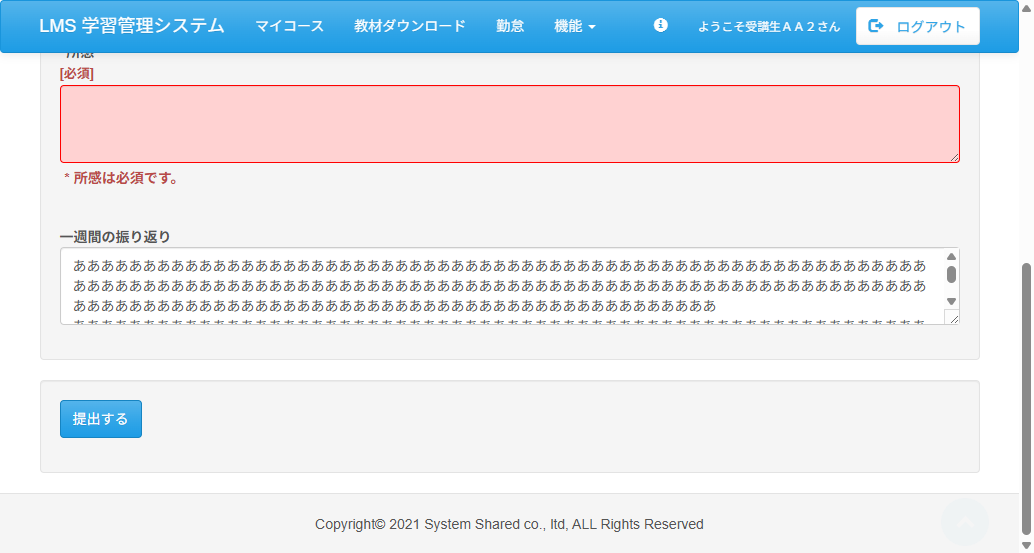
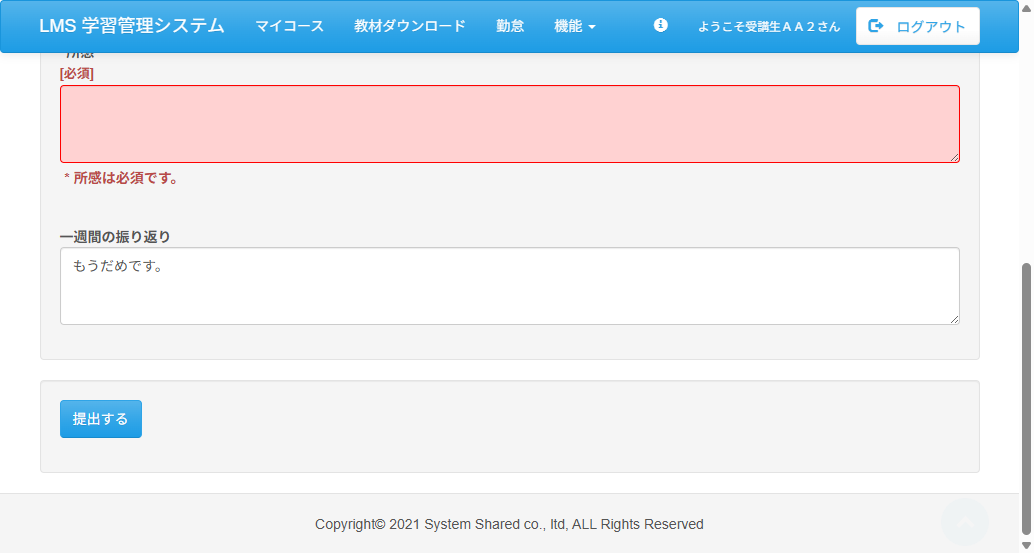
fix:Case09.java 修正 fix:Case11.java 追記 add:Case11_test01.png 新規作成 add:Case11_test02.png 新規作成 add:Case11_test03.png 新規作成 add:Case11_test04.png 新規作成 add:Case11_test05.png 新規作成 add:ConstantsMessages.java 新規作成

Changed region(s): [[0.0619, 0.4611, 0.9284, 0.5841]]

diff --git a/test_code_creation_name/src/test/java/jp/co/sss/lms/ct/f03_report/Case09.java b/test_code_creation_name/src/test/java/jp/co/sss/lms/ct/f03_report/Case09.java
@@ -17,6 +17,8 @@ import org.openqa.selenium.Keys;
 import org.openqa.selenium.WebElement;
 import org.openqa.selenium.support.ui.Select;
 
+import jp.co.sss.lms.ct.util.ConstantsMessages;
+
 /**
  * 結合テスト レポート機能
  * ケース09
@@ -120,6 +122,13 @@ public class Case09 {
 				break;
 			}
 		}
+
+		//レポート登録画面に遷移しているかを確認する
+		//レポート登録画面に遷移しているかを確認
+		WebElement report = webDriver.findElement(By.tagName("h2"));
+		String reportTitleString = report.getText();
+		String reportTitle = reportTitleString.split(" ")[0];
+		assertEquals("週報【デモ】", reportTitle);
 
 		//画面をキャプチャして保存する
 		getEvidence(new Object() {
@@ -384,36 +393,11 @@ public class Case09 {
 		WebElement weeklyReview = webDriver.findElement(By.name("contentArray[2]"));
 		weeklyReview.clear();
 
-		weeklyReview.sendKeys(
-				"ああああああああああああああああああああああああああああああああああああああああああああああああああああああああああああああああああああああああああああああああああああああああああああああああああああああああああああああああああああああああああああああああああああああああああああああああああああああああああああああああああああああああ\r\n"
-						+ "ああああああああああああああああああああああああああああああああああああああああああああああああああああああああああああああああああああああああああああああああああああああああああああああああああああああああああああああああああああああああああああああああああああああああああああああああああああああああああああああああああああああああ\r\n"
-						+ "ああああああああああああああああああああああああああああああああああああああああああああああああああああああああああああああああああああああああああああああああああああ\r\n"
-						+ "ああああああああああああああああああああああああああああああああああああああああああああああああああああああああああああああああああああああああああああああああ");
-
-		weeklyReview.sendKeys(
-				"ああああああああああああああああああああああああああああああああああああああああああああああああああああああああああああああああああああああああああああああああああああああああああああああああああああああああああああああああああああああああああああああああああああああああああああああああああああああああああああああああああああああああ\r\n"
-						+ "ああああああああああああああああああああああああああああああああああああああああああああああああああああああああああああああああああああああああああああああああああああああああああああああああああああああああああああああああああああああああああああああああああああああああああああああああああああああああああああああああああああああああ\r\n"
-						+ "ああああああああああああああああああああああああああああああああああああああああああああああああああああああああああああああああああああああああああああああああああああ\r\n"
-						+ "ああああああああああああああああああああああああああああああああああああああああああああああああああああああああああああああああああああああああああああああああ");
-
-		weeklyReview.sendKeys(
-				"ああああああああああああああああああああああああああああああああああああああああああああああああああああああああああああああああああああああああああああああああああああああああああああああああああああああああああああああああああああああああああああああああああああああああああああああああああああああああああああああああああああああああ\r\n"
-						+ "ああああああああああああああああああああああああああああああああああああああああああああああああああああああああああああああああああああああああああああああああああああああああああああああああああああああああああああああああああああああああああああああああああああああああああああああああああああああああああああああああああああああああ\r\n"
-						+ "ああああああああああああああああああああああああああああああああああああああああああああああああああああああああああああああああああああああああああああああああああああ\r\n"
-						+ "ああああああああああああああああああああああああああああああああああああああああああああああああああああああああああああああああああああああああああああああああ");
-
-		weeklyReview.sendKeys(
-				"ああああああああああああああああああああああああああああああああああああああああああああああああああああああああああああああああああああああああああああああああああああああああああああああああああああああああああああああああああああああああああああああああああああああああああああああああああああああああああああああああああああああああ\r\n"
-						+ "ああああああああああああああああああああああああああああああああああああああああああああああああああああああああああああああああああああああああああああああああああああああああああああああああああああああああああああああああああああああああああああああああああああああああああああああああああああああああああああああああああああああああ\r\n"
-						+ "ああああああああああああああああああああああああああああああああああああああああああああああああああああああああああああああああああああああああああああああああああああ\r\n"
-						+ "ああああああああああああああああああああああああああああああああああああああああああああああああああああああああああああああああああああああああああああああああ");
-
-		weeklyReview.sendKeys(
-				"ああああああああああああああああああああああああああああああああああああああああああああああああああああああああああああああああああああああああああああああああああああああああああああああああああああああああああああああああああああああああああああああああああああああああああああああああああああああああああああああああああああああああ\r\n"
-						+ "ああああああああああああああああああああああああああああああああああああああああああああああああああああああああああああああああああああああああああああああああああああああああああああああああああああああああああああああああああああああああああああああああああああああああああああああああああああああああああああああああああああああああ\r\n"
-						+ "ああああああああああああああああああああああああああああああああああああああああああああああああああああああああああああああああああああああああああああああああああああ\r\n"
-						+ "ああああああああああああああああああああああああああああああああああああああああああああああああああああああああああああああああああああああああああああああああい"
-						+ Keys.ENTER);
+		weeklyReview.sendKeys(ConstantsMessages.len500);
+		weeklyReview.sendKeys(ConstantsMessages.len500);
+		weeklyReview.sendKeys(ConstantsMessages.len500);
+		weeklyReview.sendKeys(ConstantsMessages.len501);
+		weeklyReview.sendKeys(Keys.ENTER);
 
 		//「提出する」ボタンをクリック
 		WebElement reportSubmit = webDriver.findElement(By.className("btn-primary"));

diff --git a/test_code_creation_name/src/test/java/jp/co/sss/lms/ct/f04_attendance/Case11.java b/test_code_creation_name/src/test/java/jp/co/sss/lms/ct/f04_attendance/Case11.java
@@ -3,6 +3,12 @@ package jp.co.sss.lms.ct.f04_attendance;
 import static jp.co.sss.lms.ct.util.WebDriverUtils.*;
 import static org.junit.jupiter.api.Assertions.*;
 
+import java.time.LocalDate;
+import java.time.format.DateTimeFormatter;
+import java.util.List;
+import java.util.regex.Matcher;
+import java.util.regex.Pattern;
+
 import org.junit.jupiter.api.AfterAll;
 import org.junit.jupiter.api.BeforeAll;
 import org.junit.jupiter.api.DisplayName;
@@ -10,8 +16,11 @@ import org.junit.jupiter.api.MethodOrderer.OrderAnnotation;
 import org.junit.jupiter.api.Order;
 import org.junit.jupiter.api.Test;
 import org.junit.jupiter.api.TestMethodOrder;
+import org.openqa.selenium.Alert;
 import org.openqa.selenium.By;
+import org.openqa.selenium.NoAlertPresentException;
 import org.openqa.selenium.WebElement;
+import org.openqa.selenium.support.ui.Select;
 
 /**
  * 結合テスト 勤怠管理機能
@@ -85,6 +94,14 @@ public class Case11 {
 		WebElement attendance = webDriver.findElement(By.linkText("勤怠"));
 		attendance.click();
 
+		// アラートが出ているか確認して処理
+		try {
+			Alert alert = webDriver.switchTo().alert();
+			alert.accept(); // OKボタンを押す
+		} catch (NoAlertPresentException e) {
+			// アラートがなければ何もしない
+		}
+
 		//正しい表示画面に遷移しているかを確認
 		WebElement attendanceManagement = webDriver.findElement(By.tagName("h2"));
 		assertEquals("勤怠管理", attendanceManagement.getText());
@@ -114,8 +131,93 @@ public class Case11 {
 	@Test
 	@Order(5)
 	@DisplayName("テスト05 すべての研修日程の勤怠情報を正しく更新し勤怠管理画面に遷移")
-	void test05() {
-		// TODO ここに追加
+	void test05() throws InterruptedException {
+		//テーブルのtdody要素を取得する
+		WebElement tbody = webDriver.findElement(By.tagName("tbody"));
+		//trタグを取得する
+		List<WebElement> trTags = tbody.findElements(By.tagName("tr"));
+
+		// yyyy年MM月dd日 の部分だけを抜き出す正規表現
+		Pattern datePattern = Pattern.compile("(\\d{4}年\\d{2}月\\d{2}日)");
+
+		//日付の比較の準備
+		DateTimeFormatter formatter = DateTimeFormatter.ofPattern("yyyy年MM月dd日");
+		LocalDate today = LocalDate.now();//今日の日付
+
+		for (WebElement tr : trTags) {
+			List<WebElement> tdTags = tr.findElements(By.tagName("td"));
+			Matcher matcher = datePattern.matcher(tdTags.get(0).getText());
+			if (matcher.find()) {
+				String dateString = matcher.group(1);
+				System.out.println(dateString);
+
+				// 文字列をLocalDateに変換
+				LocalDate date = LocalDate.parse(dateString, formatter);
+
+				// 日付を比較して本日とそれ以前の日付には「定時」ボタンをクリックする
+				if (date.isBefore(today) || date.equals(today)) {
+					WebElement button = tdTags.get(2).findElement(By.tagName("button"));
+					//画面を少し下にずらしてクリック
+					scrollBy("50");
+					button.click();
+
+					//一秒待つ
+					Thread.sleep(1000);
+				}
+			}
+
+		}
+
+		/*最初の日付の出勤が9:00 退勤が18:00 であるかを確認する*/
+		//要素を取得
+		WebElement startHour = webDriver.findElement(By.xpath("//select[@id='startHour0']"));
+		WebElement startMinute = webDriver.findElement(By.xpath("//select[@id='startMinute0']"));
+		WebElement endHour = webDriver.findElement(By.xpath("//select[@id='endHour0']"));
+		WebElement endMinute = webDriver.findElement(By.xpath("//select[@id='endMinute0']"));
+
+		// Selectクラスを使って操作
+		Select selectStartHour = new Select(startHour);
+		Select selectStartMinute = new Select(startMinute);
+		Select selectEndHour = new Select(endHour);
+		Select selectEndMinute = new Select(endMinute);
+
+		// 現在選択されているオプションのテキストを取得
+		String startHourStr = selectStartHour.getFirstSelectedOption().getText();
+		String startMinuteStr = selectStartMinute.getFirstSelectedOption().getText();
+		String endHourStr = selectEndHour.getFirstSelectedOption().getText();
+		String endMinuteStr = selectEndMinute.getFirstSelectedOption().getText();
+
+		assertEquals("09", startHourStr);
+		assertEquals("00", startMinuteStr);
+		assertEquals("18", endHourStr);
+		assertEquals("00", endMinuteStr);
+
+		//クリックできるように画面をスクロールする
+		scrollTo("1000");
+
+		//「更新」ボタンを押下して勤怠管理画面に遷移する
+		WebElement update = webDriver.findElement(By.name("complete"));
+		update.click();
+
+		//一秒待つ
+		Thread.sleep(1000);
+
+		// アラートが出ているか確認して処理
+		try {
+			Alert alert = webDriver.switchTo().alert();
+			alert.accept(); // OKボタンを押す
+		} catch (NoAlertPresentException e) {
+			// アラートがなければ何もしない
+		}
+
+		//正しい表示画面に遷移しているかを確認
+		WebElement attendanceManagement = webDriver.findElement(By.tagName("h2"));
+		assertEquals("勤怠管理", attendanceManagement.getText());
+
+		//画面をキャプチャして保存する
+		getEvidence(new Object() {
+		});
+
 	}
 
 }

diff --git a/test_code_creation_name/src/test/java/jp/co/sss/lms/ct/util/WebDriverUtils.java b/test_code_creation_name/src/test/java/jp/co/sss/lms/ct/util/WebDriverUtils.java
@@ -32,7 +32,7 @@ public class WebDriverUtils {
 		System.setProperty("webdriver.chrome.driver", "lib/chromedriver.exe");
 		webDriver = new ChromeDriver();
 	}
-	
+
 	/**
 	 * インスタンス終了
 	 */
@@ -48,7 +48,7 @@ public class WebDriverUtils {
 		webDriver.get(url);
 		pageLoadTimeout(5);
 	}
-	
+
 	/**
 	 * ページロードタイムアウト設定
 	 * @param second
@@ -56,7 +56,7 @@ public class WebDriverUtils {
 	public static void pageLoadTimeout(int second) {
 		webDriver.manage().timeouts().pageLoadTimeout(Duration.ofSeconds(second));
 	}
-	
+
 	/**
 	 * 要素の可視性タイムアウト設定
 	 * @param locater
@@ -66,7 +66,7 @@ public class WebDriverUtils {
 		WebDriverWait wait = new WebDriverWait(webDriver, Duration.ofSeconds(second));
 		wait.until(ExpectedConditions.visibilityOfElementLocated(locater));
 	}
-	
+
 	/**
 	 * 指定ピクセル分だけスクロール
 	 * @param pixel
@@ -75,7 +75,6 @@ public class WebDriverUtils {
 		((JavascriptExecutor) webDriver).executeScript("window.scrollBy(0," + pixel + ");");
 	}
 
-	
 	/**
 	 * 指定位置までスクロール
 	 * @param pixel
@@ -114,5 +113,4 @@ public class WebDriverUtils {
 			e.printStackTrace();
 		}
 	}
-
 }

diff --git a/test_code_creation_name/src/test/java/jp/co/sss/lms/ct/util/ConstantsMessages.java b/test_code_creation_name/src/test/java/jp/co/sss/lms/ct/util/ConstantsMessages.java
@@ -1,0 +1,8 @@
+package jp.co.sss.lms.ct.util;
+
+public class ConstantsMessages {
+
+	public static final String len500 = "あ".repeat(500);
+	public static final String len501 = "あ".repeat(500) + "い";
+
+}
